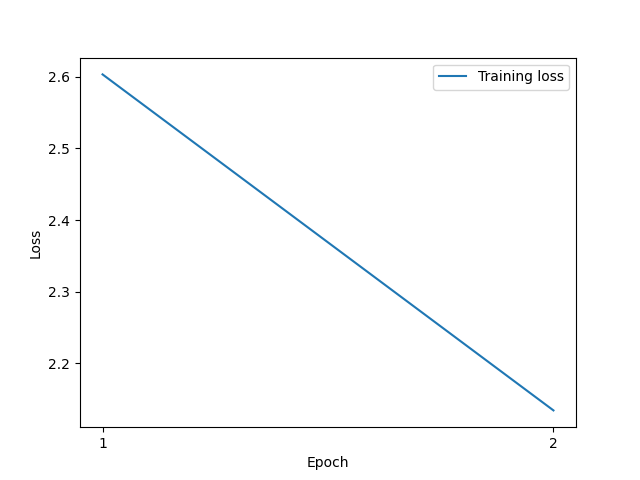
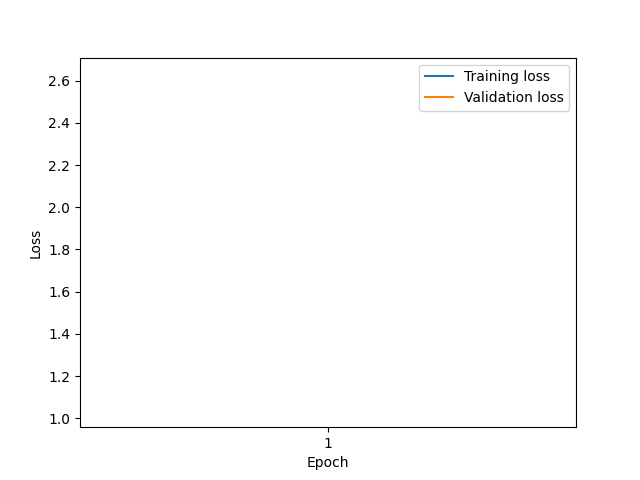
added resize image for validation set and added validation code in train.py

diff --git a/tutorials/03-advanced/image_captioning/train-Copy1.py b/tutorials/03-advanced/image_captioning/train-Copy1.py
@@ -3,8 +3,6 @@ import torch
 import torch.nn as nn
 import numpy as np
 import os
-from os import listdir
-from os.path import isfile, join
 import pickle
 from data_loader import get_loader 
 from build_vocab import Vocabulary
@@ -13,11 +11,9 @@ from torch.nn.utils.rnn import pack_padded_sequence
 from torchvision import transforms
 import matplotlib.pyplot as plt
 import shutil
-from torchtext.data.metrics import bleu_score
 
 # Device configuration
 device = torch.device('cuda' if torch.cuda.is_available() else 'cpu')
-    
 
 def main(args):
     # Create model directory
@@ -48,10 +44,6 @@ def main(args):
     data_loader = get_loader(args.image_dir, args.caption_path, vocab, 
                              transform, args.batch_size,
                              shuffle=True, num_workers=args.num_workers) 
-    
-    val_data_loader = get_loader(args.val_image_dir, args.val_caption_path, vocab, 
-                             transform, args.batch_size,
-                             shuffle=True, num_workers=args.num_workers) 
 
     # Build the models
     encoder = EncoderCNN(args.embed_size).to(device)
@@ -68,7 +60,7 @@ def main(args):
     losses = 0
     train_losses =[]
     for epoch in range(args.num_epochs):
-        for i, (images, captions, lengths, sentences) in enumerate(data_loader):
+        for i, (images, captions, lengths) in enumerate(data_loader):
             
             # Set mini-batch dataset
             images = images.to(device)
@@ -77,10 +69,6 @@ def main(args):
             
             # Forward, backward and optimize
             features = encoder(images)
-#             candidate_corpus = get_sentence(features, decoder, vocab)
-#             candidate_corpus = candidate_corpus.split(' ')
-#             x = bleu_score(candidate_corpus, sentences)
-#             print(x)
             outputs = decoder(features, captions, lengths)
             loss = criterion(outputs, targets)
             losses += loss.item()
@@ -103,86 +91,20 @@ def main(args):
                 
         losses /= len(data_loader)
         train_losses.append(losses)
-    
-    
-    # Find the latest encoder and decoder
-    model_root = 'models'
-    files = [f for f in listdir(model_root) if isfile(join(model_root, f))]
-    latest = int(len(files)/6)
-    
-    encoder = encoder.to(device)
-    decoder = decoder.to(device)
-
-    # Load the trained model parameters
-    encoder.load_state_dict(torch.load(f'models/encoder-{latest}-3000.ckpt'))
-    decoder.load_state_dict(torch.load(f'models/decoder-{latest}-3000.ckpt'))
-    
-    val_total_step = len(val_data_loader)
-    
-    val_loss = 0
-    val_losses =[]
-    for epoch in range(args.num_epochs):
-        for i, (images, captions, lengths, sentences) in enumerate(val_data_loader):
-            
-            # Set mini-batch dataset
-            images = images.to(device)
-            captions = captions.to(device)
-            targets = pack_padded_sequence(captions, lengths, batch_first=True)[0]
-            
-            # Forward, backward and optimize
-            features = encoder(images)
-            
-            outputs = decoder(features, captions, lengths)
-            loss = criterion(outputs, targets)
-            val_loss += loss.item()
-
-            # Print log info
-            if i % args.log_step == 0:
-                print('Epoch [{}/{}], Step [{}/{}], Loss: {:.4f}, Perplexity: {:5.4f}'
-                      .format(epoch, args.num_epochs, i, val_total_step, loss.item(), np.exp(loss.item()))) 
-                
-#             # Save the model checkpoints
-#             if (i+1) % args.save_step == 0:
-#                 torch.save(decoder.state_dict(), os.path.join(
-#                     args.model_path, 'decoder-{}-{}.ckpt'.format(epoch+1, i+1)))
-#                 torch.save(encoder.state_dict(), os.path.join(
-#                     args.model_path, 'encoder-{}-{}.ckpt'.format(epoch+1, i+1)))
-                
-        val_loss /= len(data_loader)
-        val_losses.append(val_loss)
         
-    
-        
-    plot_loss_graph(args.num_epochs, train_losses, val_losses, init_folder)
-    
-def get_sentence(features, decoder, vocab):
-    sampled_ids = decoder.sample(features)
-    sampled_ids = sampled_ids[0].cpu().numpy()
-    # Convert word_ids to words
-    sampled_caption = []
-    for word_id in sampled_ids:
-        word = vocab.idx2word[word_id]
-        sampled_caption.append(word)
-        if word != '<start>' and word != '<end>':
-            sentence = ' '.join(sampled_caption)
-        if word == '<end>':
-            break
+    plot_loss_graph(args.num_epochs, train_losses,  init_folder)
 
-    # Print out the image and the generated caption
-    print (sentence)
-    return sentence
-
-def plot_loss_graph(epoch, training_losses, validation_losses,init_folder):
+def plot_loss_graph(epoch, training_losses, init_folder):
     epoch_list = np.arange(1, epoch + 1)
     plt.xticks(epoch_list)
     plt.xlabel("Epoch")
     plt.ylabel("Loss")
     plt.plot(epoch_list, training_losses, label = "Training loss")
-    plt.plot(epoch_list, validation_losses, label = "Validation loss")
+#     plt.plot(epoch_list, validation_losses, label = "Validation loss")
     plt.legend(loc = "upper right")
     path = str(init_folder) + "/loss.png"
     plt.savefig(path)
-#     plt.show()
+    plt.show()
     
 if __name__ == '__main__':
     parser = argparse.ArgumentParser()
@@ -190,9 +112,7 @@ if __name__ == '__main__':
     parser.add_argument('--crop_size', type=int, default=224 , help='size for randomly cropping images')
     parser.add_argument('--vocab_path', type=str, default='data/vocab.pkl', help='path for vocabulary wrapper')
     parser.add_argument('--image_dir', type=str, default='data/resized2014', help='directory for resized images')
-    parser.add_argument('--val_image_dir', type=str, default='data/val_resized2014', help='directory for validation resized images')
     parser.add_argument('--caption_path', type=str, default='../../../../../datasets/coco2014/trainval_coco2014_captions/captions_train2014.json', help='path for train annotation json file')
-    parser.add_argument('--val_caption_path', type=str, default='../../../../../datasets/coco2014/trainval_coco2014_captions/captions_val2014.json', help='path for val annotation json file')
     parser.add_argument('--log_step', type=int , default=10, help='step size for prining log info')
     parser.add_argument('--save_step', type=int , default=1000, help='step size for saving trained models')
     

diff --git a/tutorials/03-advanced/image_captioning/resize.py b/tutorials/03-advanced/image_captioning/resize.py
@@ -1,16 +1,28 @@
 import argparse
 import os
 from PIL import Image
-
+import shutil
 
 def resize_image(image, size):
     """Resize an image to the given size."""
     return image.resize(size, Image.ANTIALIAS)
 
-def resize_images(image_dir, output_dir, size):
+def resize_images(image_dir, val_image_dir, output_dir, val_output_dir, size):
     """Resize the images in 'image_dir' and save into 'output_dir'."""
+    
     if not os.path.exists(output_dir):
         os.makedirs(output_dir)
+
+    else:
+        shutil.rmtree(output_dir)
+        os.makedirs(output_dir)
+     
+    if not os.path.exists(val_output_dir):
+        os.makedirs(val_output_dir)
+     
+    else:
+        shutil.rmtree(val_output_dir)
+        os.makedirs(val_output_dir)
 
     images = os.listdir(image_dir)
     num_images = len(images)
@@ -22,12 +34,25 @@ def resize_images(image_dir, output_dir, size):
         if (i+1) % 100 == 0:
             print ("[{}/{}] Resized the images and saved into '{}'."
                    .format(i+1, num_images, output_dir))
+            
+    val_images = os.listdir(val_image_dir)
+    num_images = len(val_images)
+    for i, val_image in enumerate(val_images):
+        with open(os.path.join(val_image_dir, val_image), 'rb') as f:
+            with Image.open(f) as img:
+                img = resize_image(img, size)
+                img.save(os.path.join(val_output_dir, val_image), img.format)
+        if (i+1) % 100 == 0:
+            print ("[{}/{}] Resized the images and saved into '{}'."
+                   .format(i+1, num_images, val_output_dir))
 
 def main(args):
     image_dir = args.image_dir
+    val_image_dir = args.val_image_dir
     output_dir = args.output_dir
+    val_output_dir = args.val_output_dir
     image_size = [args.image_size, args.image_size]
-    resize_images(image_dir, output_dir, image_size)
+    resize_images(image_dir, val_image_dir, output_dir, val_output_dir,image_size)
 
 
 if __name__ == '__main__':
@@ -36,8 +61,12 @@ if __name__ == '__main__':
 #                         help='directory for train images')
     parser.add_argument('--image_dir', type=str, default='../../../../../datasets/coco2014/train2014/',
                         help='directory for train images')
+    parser.add_argument('--val_image_dir', type=str, default='../../../../../datasets/coco2014/val2014/',
+                        help='directory for val images')
     parser.add_argument('--output_dir', type=str, default='./data/resized2014/',
                         help='directory for saving resized images')
+    parser.add_argument('--val_output_dir', type=str, default='./data/val_resized2014/',
+                        help='directory for saving validation resized images')
     parser.add_argument('--image_size', type=int, default=256,
                         help='size for image after processing')
     args = parser.parse_args()

diff --git a/tutorials/03-advanced/image_captioning/data_loader.py b/tutorials/03-advanced/image_captioning/data_loader.py
@@ -41,13 +41,15 @@ class CocoDataset(data.Dataset):
             image = self.transform(image)
 
         # Convert caption (string) to word ids.
+        sentence = []
+        sentence.append(caption.split(' '))
         tokens = nltk.tokenize.word_tokenize(str(caption).lower())
         caption = []
         caption.append(vocab('<start>'))
         caption.extend([vocab(token) for token in tokens])
         caption.append(vocab('<end>'))
         target = torch.Tensor(caption)
-        return image, target
+        return image, target, sentence
 
     def __len__(self):
         return len(self.ids)
@@ -71,8 +73,8 @@ def collate_fn(data):
     """
     # Sort a data list by caption length (descending order).
     data.sort(key=lambda x: len(x[1]), reverse=True)
-    images, captions = zip(*data)
-
+    
+    images, captions, sentences = zip(*data)
     # Merge images (from tuple of 3D tensor to 4D tensor).
     images = torch.stack(images, 0)
 
@@ -82,7 +84,7 @@ def collate_fn(data):
     for i, cap in enumerate(captions):
         end = lengths[i]
         targets[i, :end] = cap[:end]        
-    return images, targets, lengths
+    return images, targets, lengths, sentences
 
 def get_loader(root, json, vocab, transform, batch_size, shuffle, num_workers):
     """Returns torch.utils.data.DataLoader for custom coco dataset."""
